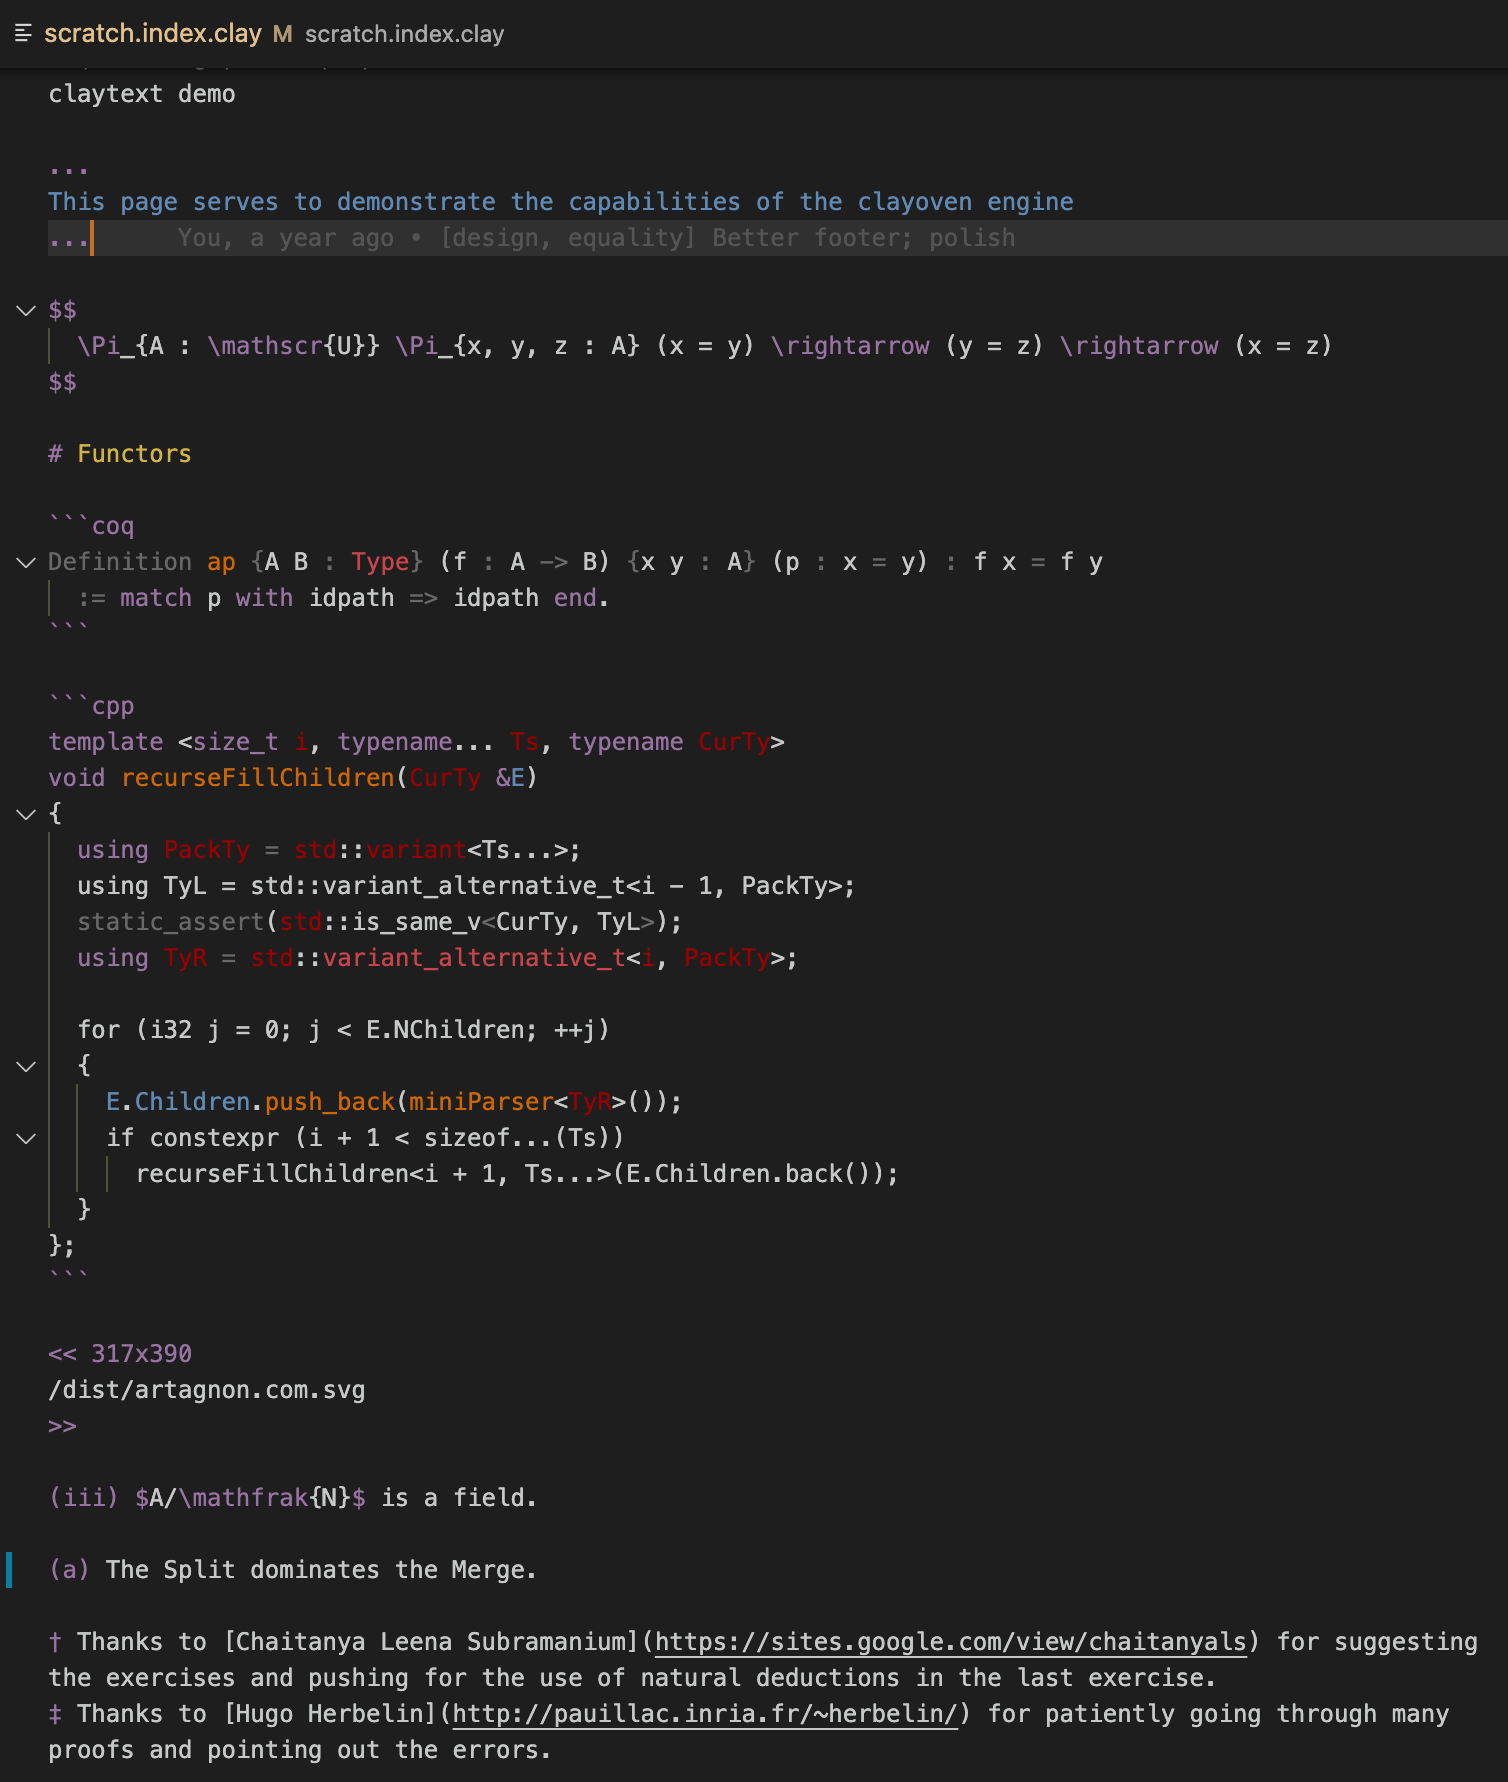
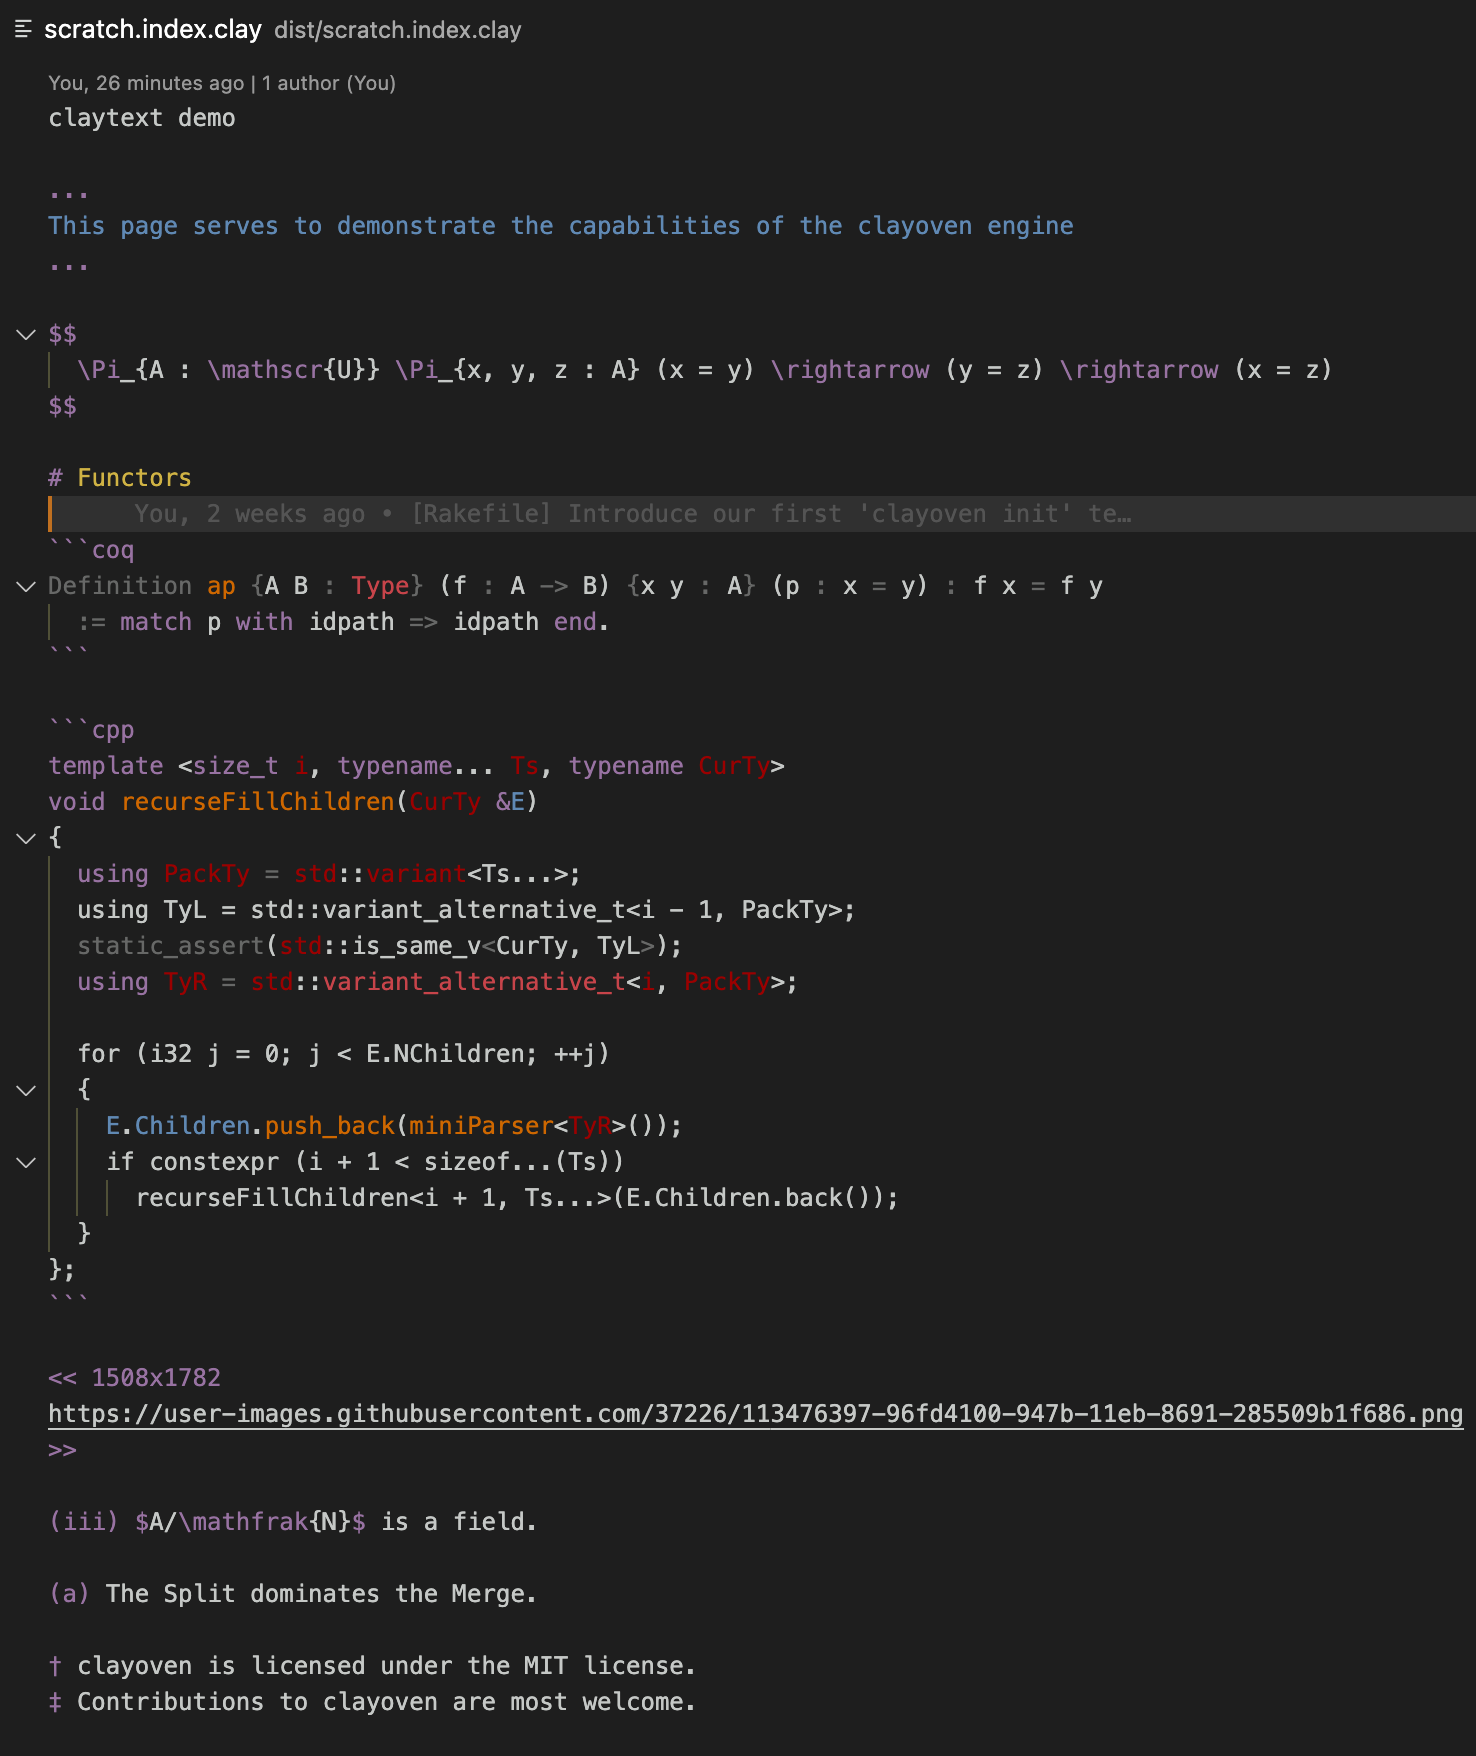
[README] Update syntax-demo

diff --git a/README.md b/README.md
@@ -18,7 +18,7 @@ rdoc documentation is available at [clayoven.artagnon.com](https://clayoven.arta
 
 A starter project is bundled with the following `scratch.index.clay`:
 
-![syntax highlighting demo](https://user-images.githubusercontent.com/37226/113476397-96fd4100-947b-11eb-8691-285509b1f686.png)
+![syntax highlighting demo](https://user-images.githubusercontent.com/37226/113478818-91a7f280-948b-11eb-87f0-3610f2aa3160.png)
 
 whose rendered output can be seen [here](https://artagnon.com/scratch)).
 
